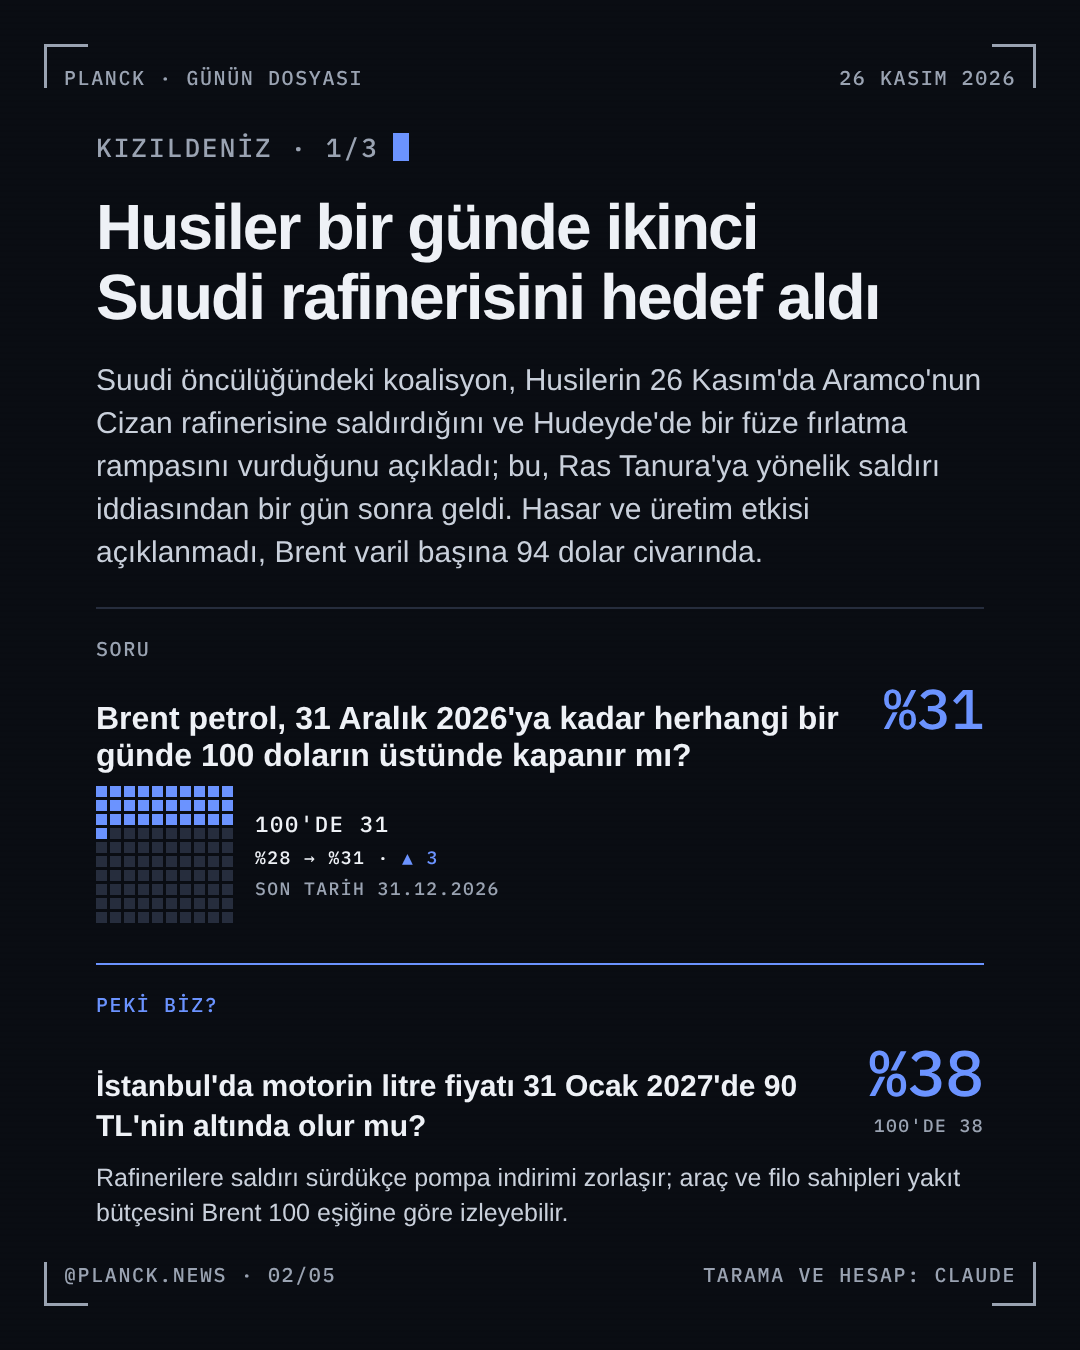
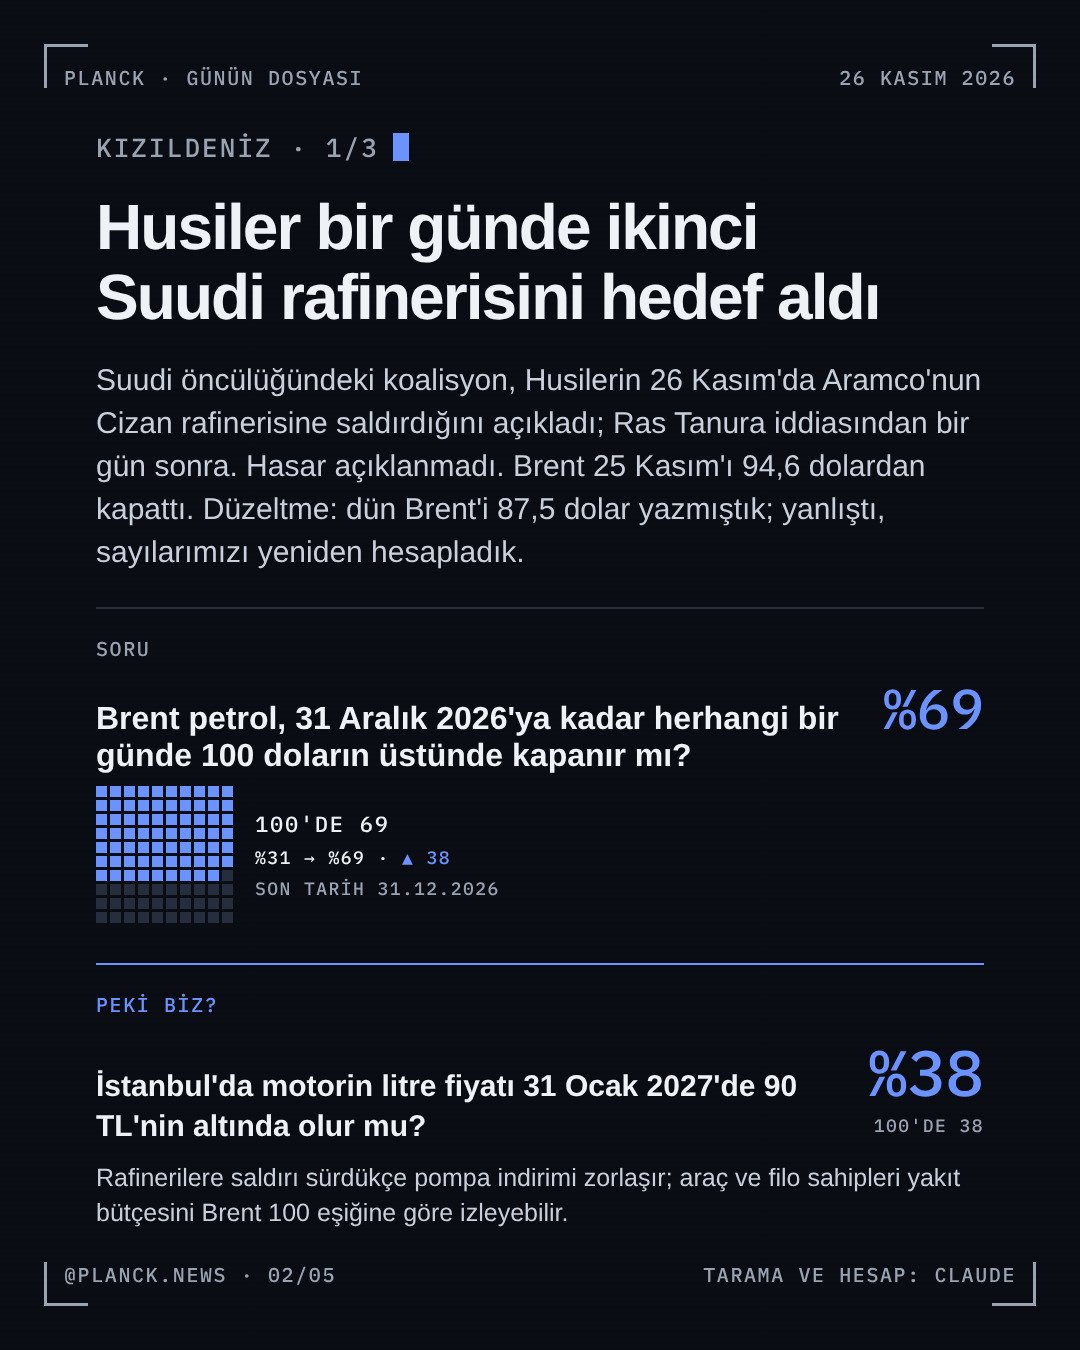
Akşam turu 26.11: Dosya 23:00; Brent 87,5 hatası düzeltildi (sicil Motor yeniden hesabı); 3 hikâye (10/20)
Claude-Session: https://claude.ai/code/session_01QCGPWJJC6juFjd743twhsh

diff --git a/hikayeler/turkiye-ekonomi/HIKAYE.md b/hikayeler/turkiye-ekonomi/HIKAYE.md
@@ -1,32 +1,37 @@
 # Türkiye ekonomisi: enflasyon, faiz, ücret, enerji tarifeleri
 
-Alan: türkiye ekonomisi · Açılış: 2026-11-23 · Durum: süren
+Alan: türkiye ekonomisi · Açılış: 2026-11-23 · Durum: süren · Geriye dönük dolduruldu: 2026-11-26 (akşam turu)
 
 ## Özet (her güncellemede yeniden yazılır, 3–5 cümle)
-TCMB Ekim'de politika faizini %37'den %36'ya indirdi; Kasım Piyasa Katılımcıları Anketi Aralık için %35 bekliyor. Kasım'ın ikinci yarısında dış koşullar sertleşti: ABD'de çekirdek PCE 2023'ten beri en yüksek seviyeye çıktı, Fed'in 8–9 Aralık'ta faiz artırması büyük ölçüde fiyatlanıyor. 25 Kasım'da BIST 100 %2,83, banka endeksi %4,46 düştü; rezervlerde düşüş haberleri var. Karar 3 Aralık Kasım TÜFE'si ile netleşecek.
+TCMB'nin Aralık'ta indirim döngüsünü sürdürüp sürdürmeyeceği, dış koşulların sertleşmesiyle belirsizleşti. Fed'in artırıma yönelmesi ve küresel teknoloji satışıyla BIST 100 25.11'de %2,83 düştü (banka endeksi −%4,46). Akaryakıtta Brent düşüşüyle gelen iki indirim (20.11 ve 26.11) 1 Aralık ve 1 Ocak ÖTV artışlarıyla kısmen geri gelecek. Asgari ücret ve Kasım TÜFE (3 Aralık) Aralık kararının ana girdileri.
 
 ## Aktörler (ekip/GUC-OKUMA.md §1)
 | Aktör | Rolü (karar verir / engeller / etkiler) | Ne kazanır, ne kaybeder | Yön | Güç (1–3) |
 |---|---|---|---|---|
-| TCMB Para Politikası Kurulu | karar verir | İndirimle büyümeye nefes; erken indirimle kur ve rezerv baskısı riski | belirsiz (anket yönünde indirim eğilimli) | 3 |
-| Fed (FOMC) | etkiler (dış koşul) | Enflasyonla mücadele; artırım gelişmekte olan ülkelere giden parayı azaltır | indirime karşı | 2 |
-| Yabancı yatırımcı / portföy akımı | etkiler | Yüksek gerçek faiz getirisi; risk primi artarsa çıkış | indirime karşı (kısa vadede) | 2 |
-| Hazine ve Maliye Bakanlığı | etkiler | Borçlanma maliyetinin düşmesi; dezenflasyon programının güvenilirliği | indirimden yana, temkinli | 1 |
+| TCMB | karar verir | Dezenflasyon itibarı; rezerv ve kur istikrarı | ± | 3 |
+| Hazine / Maliye | karar verir (vergi) | Gelir; ÖTV artışı akaryakıt indirimini emer | − (halka indirim yansımasına) | 3 |
+| Fed / küresel faiz | etkiler | Dış finansman maliyeti | − | 2 |
+| Yabancı yatırımcı | etkiler | Taşıma getirisi | ± | 2 |
 
 ## Rüzgâr kaydı (her yeni haber bir satır; bedelli sinyal ağır)
 | Tarih | Kim | Ne (kendi cümlemizle) | Yön | Bedel | Ağırlık | Kaynak |
 |---|---|---|---|---|---|---|
-| 2026-11-20 | TCMB haftalık veri | 13 Kasım haftasında rezervlerde ≈2,11 milyar $ düşüş | indirime karşı | bedelli (rezerv kullanımı) | zayıf | TCMB, basın |
-| 2026-11-25 | Aracı kurum bülteni (A1 Capital) | TCMB'nin indirim alanının daralabileceği değerlendirmesi | indirime karşı | bedelsiz (yorum) | zayıf | Hibya |
-| 2026-11-25 | Borsa İstanbul | BIST 100 %2,83 düştü (10.655,74), banka endeksi %4,46; ABD verisi sonrası küresel satış | TCMB indirim alanı daralır yönünde | bedelli (piyasa fiyatı) | zayıf | Referans Gazetesi (AA), Ekotürk |
+| 2026-11-20 | Piyasa/EPDK | Motorine ≈6,5 TL indirim (İstanbul 88,80 TL) | + | orta | düşük | Bloomberg HT, Habertürk |
+| 2026-11-25 | Borsa İstanbul | BIST 100 −%2,83 (10.655), banka −%4,46 | − | orta | orta | AA, Memurlar.net |
+| 2026-11-26 | Piyasa | Motorine 4,32 TL indirim (≈84,58 TL); ÖTV 1 Aralık 9→12 TL | ± | orta | düşük | Timeturk, Cumhuriyet |
 
 ## Denge
-26.11: Karar vericinin kendi yönlendirmesi ve anket hâlâ Aralık indirimini (%35) gösteriyor; buna karşı rüzgâr yalnız dış koşullardan ve piyasa fiyatından geliyor (Fed artırımı, banka hisselerinde satış, rezerv haberleri). Kurulun indirim yönünden çıktığına dair bedelli bir sinyal yok. Denge hâlâ indirimden yana ama zayıfladı → %65'ten %60'a.
+Belirsiz: iç veri (henüz yok) ile dış sertleşme çekişiyor. TCMB-aralık-35 %60; denge 3 Aralık TÜFE'si ile netleşir.
 
 ## Yarışan açıklamalar (2–3 hipotez; hangisi güçleniyor)
-1. İç enflasyon belirler: Kasım TÜFE'si beklentiye yakınsa TCMB takvimi sürdürür (hâlâ ağır basıyor).
-2. Dış para belirler: Fed artırımı ve rezerv kaybı TCMB'yi küçük adıma ya da duraklamaya iter (26.11'de güçlendi).
+1. **Planlı indirim sürer** (iç veri iyi gelirse; %60).
+2. **Temkinli küçük adım** (dış sertleşme).
+3. **Duraklama** (rezerv kaybı ya da TÜFE sürprizi).
 
 ## Bağlar (kanıtlı / çelişkili / yapısal)
+- **Kanıtlı:** [[abd-ekonomi-fed]] (Fed artışı).
+- **Kanıtlı:** [[petrol-akaryakit]] (pompa fiyatı, ÖTV).
+- **Yapısal:** [[yz-ekonomisi]] (küresel risk iştahı).
 
 ## Analist notu (en son akşam turu)
+26.11: Dikkat — 25.11 motorin gönderisindeki Brent 87,5 $ hatası Brent sorularını etkiledi (düzeltildi); motorin-90 sorusu pompa fiyatıyla hesaplandığı için doğrudan değişmedi ama Brent'in 95 $ civarında kalması 31 Ocak sorusunu aşağı itebilir: yarın sabah turunda Motor yeniden hesabı.

diff --git a/hikayeler/abd-ekonomi-fed/HIKAYE.md b/hikayeler/abd-ekonomi-fed/HIKAYE.md
@@ -1,24 +1,38 @@
 # ABD ekonomisi ve Fed
 
-Alan: şirketler/piyasa · Açılış: 2026-11-23 · Durum: süren
+Alan: şirketler/piyasa · Açılış: 2026-11-23 · Durum: süren · Geriye dönük dolduruldu: 2026-11-26 (akşam turu)
 
 ## Özet (her güncellemede yeniden yazılır, 3–5 cümle)
-_Doldurulacak._
+Fed, enflasyon yeniden hızlanırken faiz artırımına yöneliyor. Ekim tutanakları (18.11) üyelerin neredeyse tamamının Aralık'ta artış beklediğini gösterdi; 25.11'de açıklanan çekirdek PCE yıllık %3,3 ile 2023'ten beri en yüksek düzeye çıktı (manşet %3,8). Vadeli piyasalar 8–9 Aralık'ta artışı %90'ın üzerinde fiyatlıyor. Petroldeki Körfez kaynaklı yükseliş (Brent 25.11 kapanış 94,6 $) enflasyon riskini besliyor.
 
 ## Aktörler (ekip/GUC-OKUMA.md §1)
 | Aktör | Rolü (karar verir / engeller / etkiler) | Ne kazanır, ne kaybeder | Yön | Güç (1–3) |
 |---|---|---|---|---|
+| Fed (FOMC) | karar verir | Fiyat istikrarı itibarı; büyümeyi boğma riski | − (gevşemeye) | 3 |
+| ABD yönetimi | etkiler | Düşük faiz ister; Fed'e baskı | + (gevşemeye) | 2 |
+| Enerji piyasası | etkiler | Petrol fiyatı manşet enflasyonu yukarı iter | − | 2 |
+| Piyasa (vadeliler) | etkiler | Beklenti kanalı | − | 2 |
 
 ## Rüzgâr kaydı (her yeni haber bir satır; bedelli sinyal ağır)
 | Tarih | Kim | Ne (kendi cümlemizle) | Yön | Bedel | Ağırlık | Kaynak |
 |---|---|---|---|---|---|---|
-| 2026-11-25 | ABD Ticaret Bakanlığı (BEA) | Ekim çekirdek PCE yıllık %3,3 (beklenti %3,2; 2023'ten beri en yüksek), manşet %3,8 | Fed Aralık artırımı yönünde | bedelsiz (veri) | orta | SBS, TheStreet |
+| 2026-11-18 | Fed | Tutanak: neredeyse tamamı Aralık'ta artış bekliyor | − | orta | orta | Bloomberg, Yahoo Finance |
+| 2026-11-20 | Piyasa | Nasdaq −%5,3; teknoloji satışı | − | yüksek | orta | Yahoo Finance, Fox Business |
+| 2026-11-25 | BEA | Çekirdek PCE %3,3 (beklenti %3,2), manşet %3,8 | − | yüksek | yüksek | UPI, Marketplace |
+| 2026-11-25 | Piyasa | Brent 94,61 $ kapanış (+%3,5), Husi saldırı iddiası | − | orta | orta | CNBC (Nation Thailand), FinanceFeeds |
 
 ## Denge
-_Olumlu / olumsuz hangisi ağır basıyor ve neden._
+Artış yönü ağır basıyor: veri (PCE) bedelli ve beklentinin üstünde, tutanak yönü teyit ediyor. Karşı ağırlık yalnız piyasa satışının finansal koşulları sıkılaştırması.
 
 ## Yarışan açıklamalar (2–3 hipotez; hangisi güçleniyor)
+1. **Enflasyon geri döndü, Fed artırır** (güçlü).
+2. **Artış tek seferlik 'sigorta'**: petrol şoku geçiciyse Fed bir artışla durur.
+3. **Piyasa çöküşü Fed'i durdurur** (zayıf; Nasdaq düşüşü henüz kriz değil).
 
 ## Bağlar (kanıtlı / çelişkili / yapısal)
+- **Kanıtlı:** Fed artışı ↔ gelişmekte olan ülke faiz alanı. Bkz. [[turkiye-ekonomi]].
+- **Kanıtlı:** Petrol ↔ manşet enflasyon. Bkz. [[petrol-akaryakit]].
+- **Kanıtlı:** Değerleme baskısı. Bkz. [[yz-ekonomisi]].
 
 ## Analist notu (en son akşam turu)
+26.11: Kritik tarihler: Kasım TÜFE (ABD) ve 8–9 Aralık FOMC. Açık soru pk-2026-11-18-abd-tufe-kasim-03 %62. 26.11 Olay ve Cevap bu hikâyeden çıktı (Uzman okuması ilk kez).

diff --git a/hikayeler/asya-piyasalar/HIKAYE.md b/hikayeler/asya-piyasalar/HIKAYE.md
@@ -1,23 +1,36 @@
 # Asya piyasalarında satış ve müdahaleler
 
-Alan: şirketler/piyasa · Açılış: 2026-11-23 · Durum: süren
+Alan: şirketler/piyasa · Açılış: 2026-11-23 · Durum: süren · Geriye dönük dolduruldu: 2026-11-26 (akşam turu)
 
 ## Özet (her güncellemede yeniden yazılır, 3–5 cümle)
-_Doldurulacak._
+Yapay zekâ değerlemelerine dair kaygı Asya'da yarı iletken ağırlıklı borsaları sert vurdu. 20.11 ABD satışının ardından Huang'ın 23.11 dönüşüyle gelen toparlanma bir gün sürdü; 25.11'de Kospi %6,2, Taiex %5, Nikkei %2,8 düştü, Şangay Bileşik bir yılı aşkın sürenin en düşük seviyesine indi. Satışı ihracat kontrolleri ve Fed'in artırıma yönelmesi besliyor.
 
 ## Aktörler (ekip/GUC-OKUMA.md §1)
 | Aktör | Rolü (karar verir / engeller / etkiler) | Ne kazanır, ne kaybeder | Yön | Güç (1–3) |
 |---|---|---|---|---|
+| Yarı iletken ihracatçıları (Samsung, TSMC, SK Hynix) | etkiler | Yapay zekâ talebi; ABD kısıtları | ± | 3 |
+| Asya merkez bankaları ve fonlar | etkiler (müdahale) | Kur ve endeks istikrarı | + | 2 |
+| ABD Ticaret Bakanlığı | engeller | Çip ihracat kuralları | − | 2 |
+| Fed | etkiler | Dolar güçlenmesi, sermaye çıkışı | − | 2 |
 
 ## Rüzgâr kaydı (her yeni haber bir satır; bedelli sinyal ağır)
 | Tarih | Kim | Ne (kendi cümlemizle) | Yön | Bedel | Ağırlık | Kaynak |
 |---|---|---|---|---|---|---|
+| 2026-11-16 | ABD Ticaret Bakanlığı | Çin'e uzaktan hesaplama için çip ihracatı lisansa bağlandı | − | yüksek | orta | BIS, TechCrunch |
+| 2026-11-23/24 | Piyasa | Huang dönüşüyle Asya'da bir günlük yükseliş | + | düşük | düşük | CNN, Nvidia 8-K |
+| 2026-11-25 | Piyasa | Kospi −%6,2, Taiex −%5, Nikkei −%2,8; Şangay yılın dibinde | − | yüksek | orta | BNN Bloomberg, Al Jazeera |
 
 ## Denge
-_Olumlu / olumsuz hangisi ağır basıyor ve neden._
+Olumsuz ağır basıyor; olumlu sinyal (Huang) kısa ömürlü ve bedelsiz. Müdahale sinyali henüz yok.
 
 ## Yarışan açıklamalar (2–3 hipotez; hangisi güçleniyor)
+1. **Değerleme düzeltmesi + Fed** (güçlü).
+2. **Jeopolitik bölünme Asya'yı daha çok vurur** (25.11 ile destek buldu).
+3. **Aşırı satış, hızlı geri dönüş** (zayıf).
 
 ## Bağlar (kanıtlı / çelişkili / yapısal)
+- **Kanıtlı:** [[yz-ekonomisi]], [[nvidia-huang]], [[abd-cin-teknoloji]].
+- **Kanıtlı:** [[abd-ekonomi-fed]].
 
 ## Analist notu (en son akşam turu)
+26.11: Bu hikâyede açık soru yok. Aday: 'Kore ya da Tayvan yetkilileri 31 Aralık'a kadar resmî bir piyasa istikrar fonu ya da açığa satış yasağı açıklar mı?' (taban: 2020 ve 2023'teki Kore açığa satış yasakları; Güç Okuma gerekli).

diff --git a/ekip/PILOT.md b/ekip/PILOT.md
@@ -6,7 +6,7 @@ Yayın turları (sabah 08:00, akşam 20:40) her çalışmada bu dosyayı okur, o
 
 **Yöntem v2.2 (21.11, Yusuf):** 21.11 sabah: Nvidia Olay ve Cevap (11:00) + dokuz alanlı portföy için en az 15 yeni soru (her alanda ≥3 hedefi; Anayasa §2) — 22.11: 4 açıldı (uzay 2, iklim 1, sağlık 1); kalan 11: uzay 1, iklim 2, sağlık 2, göç-toplum 3, teknoloji 1, şirketler 1, jeopolitik 1. açık soru 64 (endeks hariç, tavan 70) · [x] 18–19.11 olaylarını haber kapısıyla yeniden puanla (21.11: `ekip/AB-TEST-2-v22.md`).
 
-**Hikâye klasörleri (Yusuf 23.11):** 19 hikâye açıldı (`hikayeler/INDEX.md`); Nvidia dolu; 23.11 akşam: abd-iran-savasi, petrol-akaryakit, iklim-cop31 dolduruldu (4/19). 25.11 akşam: rusya-ukrayna, rusya-nato-deniz, yz-ekonomisi (7/20). Akşam turları her gün en az 3 hikâyenin Özet/Aktörler/Rüzgâr kaydını 10–23 Kasım sinyallerinden geriye dönük doldurur, hepsi bitene kadar.
+**Hikâye klasörleri (Yusuf 23.11):** 19 hikâye açıldı (`hikayeler/INDEX.md`); Nvidia dolu; 23.11 akşam: abd-iran-savasi, petrol-akaryakit, iklim-cop31 dolduruldu (4/19). 25.11 akşam: rusya-ukrayna, rusya-nato-deniz, yz-ekonomisi (7/20). 26.11 akşam: abd-ekonomi-fed, turkiye-ekonomi, asya-piyasalar (10/20). Akşam turları her gün en az 3 hikâyenin Özet/Aktörler/Rüzgâr kaydını 10–23 Kasım sinyallerinden geriye dönük doldurur, hepsi bitene kadar.
 
 **Takvim (18.11 Yusuf uyarısı sonrası):** 19.11 kare dizisi + künye + Olay ve Cevap v2 betiği, örnek Yusuf'a · 20.11 risk-catisma düzeltmesi + nv-1 taslağı · 21.11 taban ölçümü Story'leri. Her tur en az bir maddeyi bitirir ve Yusuf'a yazar.
 - [x] 16.11 · 10–16 Kasım sinyallerinde S×K geriye dönük hesaplandı (`ekip/AB-TEST-1.md`). Eşikler kalır; S kısa vadeli soruda ölçülür, 2031 endeksinde değil.

diff --git a/hikayeler/INDEX.md b/hikayeler/INDEX.md
@@ -9,7 +9,7 @@ Her haber bir hikâyeye bağlanır; yoksa yeni hikâye açılır (TARAMA §0a). 
 | [ABD–İran savaşı, Körfez ve Hürmüz](abd-iran-savasi/HIKAYE.md) | jeopolitik | 5 açık / 5 | 7 | 2026-11-26 |
 | [ABD'de demokratik kurumlar ve basın özgürlüğü](abd-kurumlar/HIKAYE.md) | göç ve toplum | 2 açık / 2 | 0 | 2026-11-23 |
 | [ABD tarifeleri ve küresel ticaret](abd-tarifeler/HIKAYE.md) | Ekonomi | 1 açık / 1 | 1 | 2026-11-25 |
-| [Asya piyasalarında satış ve müdahaleler](asya-piyasalar/HIKAYE.md) | şirketler/piyasa | 0 açık / 0 | 1 | 2026-11-23 |
+| [Asya piyasalarında satış ve müdahaleler](asya-piyasalar/HIKAYE.md) | şirketler/piyasa | 0 açık / 0 | 1 | 2026-11-26 |
 | [Süper El Niño ve gıda fiyatları](el-nino-gida/HIKAYE.md) | iklim | 2 açık / 2 | 0 | 2026-11-23 |
 | [Fransa'da bütçe ve hükümet krizi](fransa-siyaset/HIKAYE.md) | göç ve toplum | 2 açık / 2 | 0 | 2026-11-23 |
 | [İklim: COP31 Antalya ve küresel müzakereler](iklim-cop31/HIKAYE.md) | iklim | 0 açık / 0 | 2 | 2026-11-23 |
